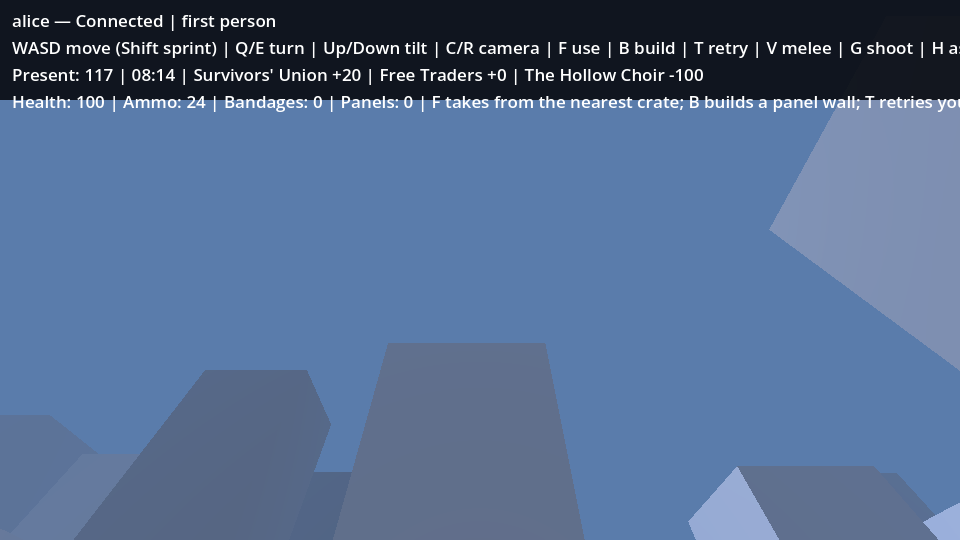
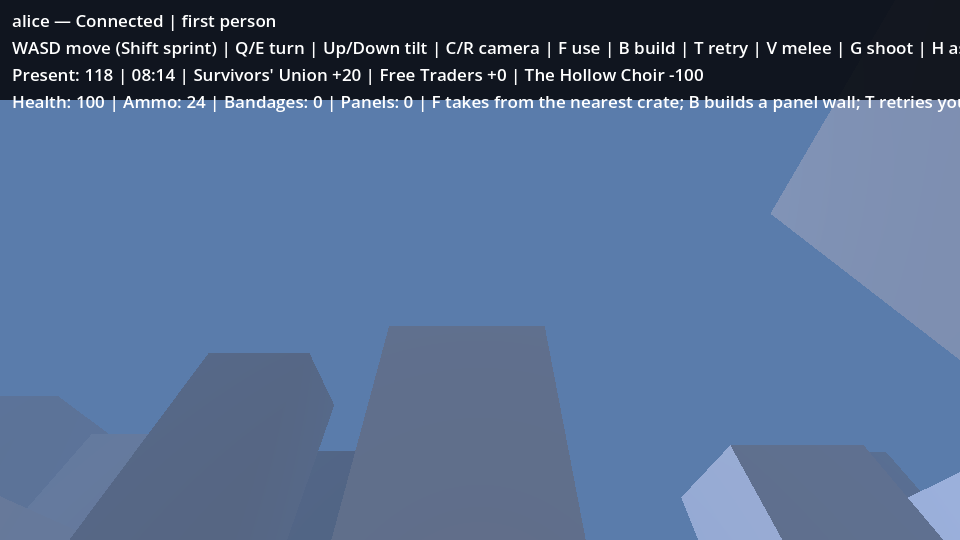
Resend the settlement table when the economy first creates it
A client's first table was sent before the economy existed and stayed empty until the
next game hour (caught by verify_city_screen).

diff --git a/src/QuestSim.Game/Session.cs b/src/QuestSim.Game/Session.cs
@@ -565,7 +565,7 @@ public partial class Session : Node
             string worldJson = JsonSerializer.Serialize(view with { Actors = [], Sequence = 0, Tick = 0 });
             // The settlement table (~20 KB) changes once per game hour; it rode in the world JSON, which faction member counts
             // change every second, costing every client ~24 KB/s.
-            long economyHour = authority.State.EconomyTicks / Economy.TicksPerHour;
+            long economyHour = authority.State.EconomyTicks / Economy.TicksPerHour * 4096 + authority.State.Settlements.Count;   // also when first created
             if (authority.Pop is not null && sentEconomyHour.GetValueOrDefault(peer, -1) != economyHour)
             {
                 RpcId(peer, nameof(ReceiveSettlements), JsonSerializer.Serialize(authority.SettlementInfos().ToArray()));
